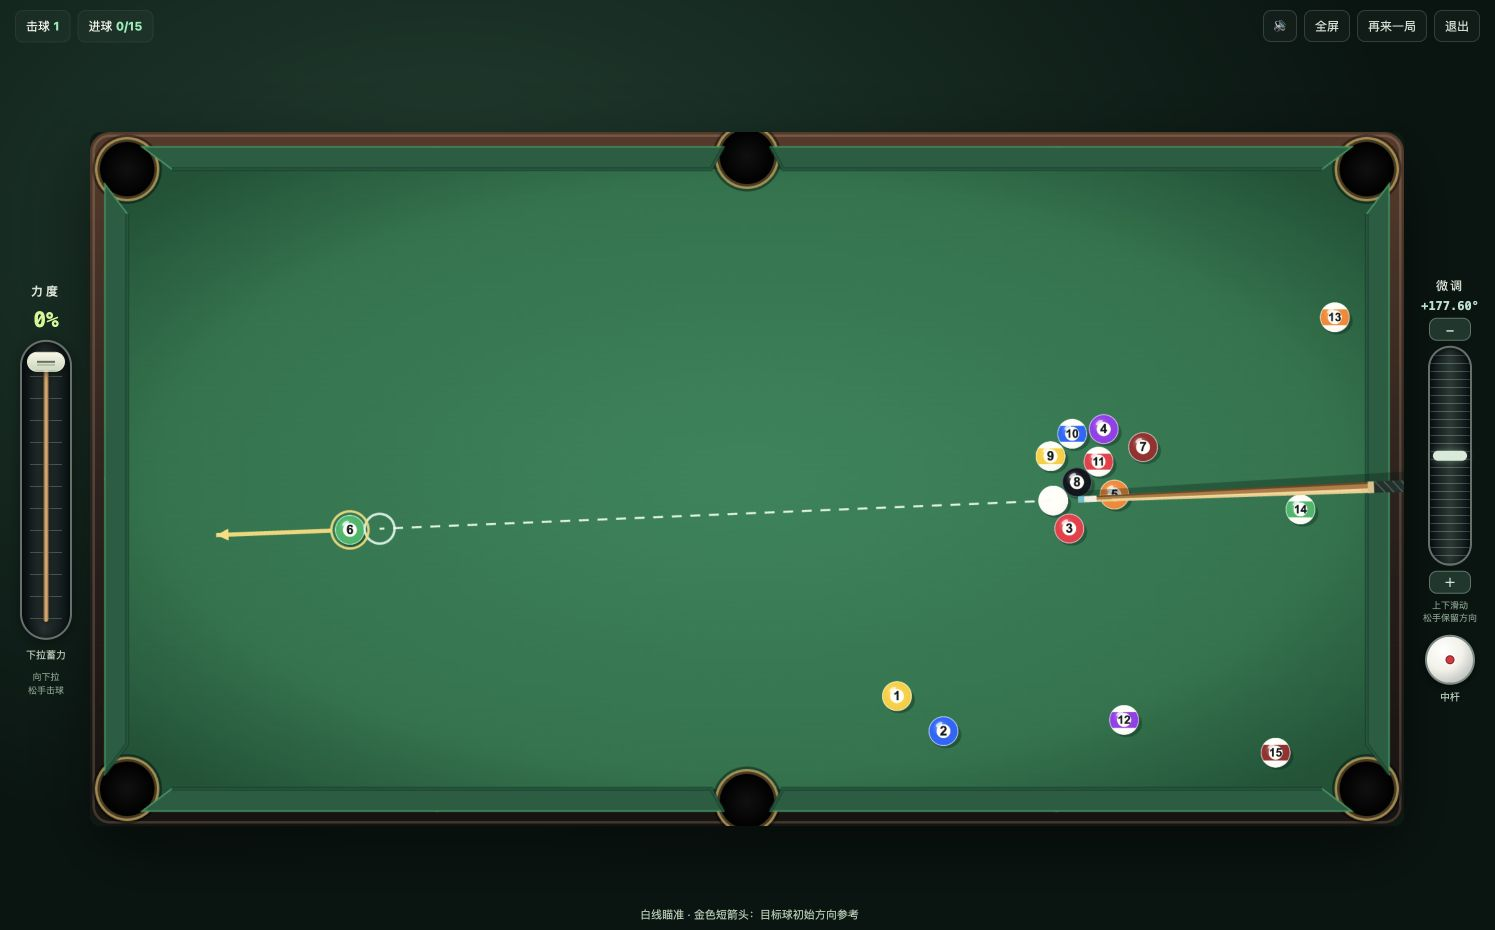
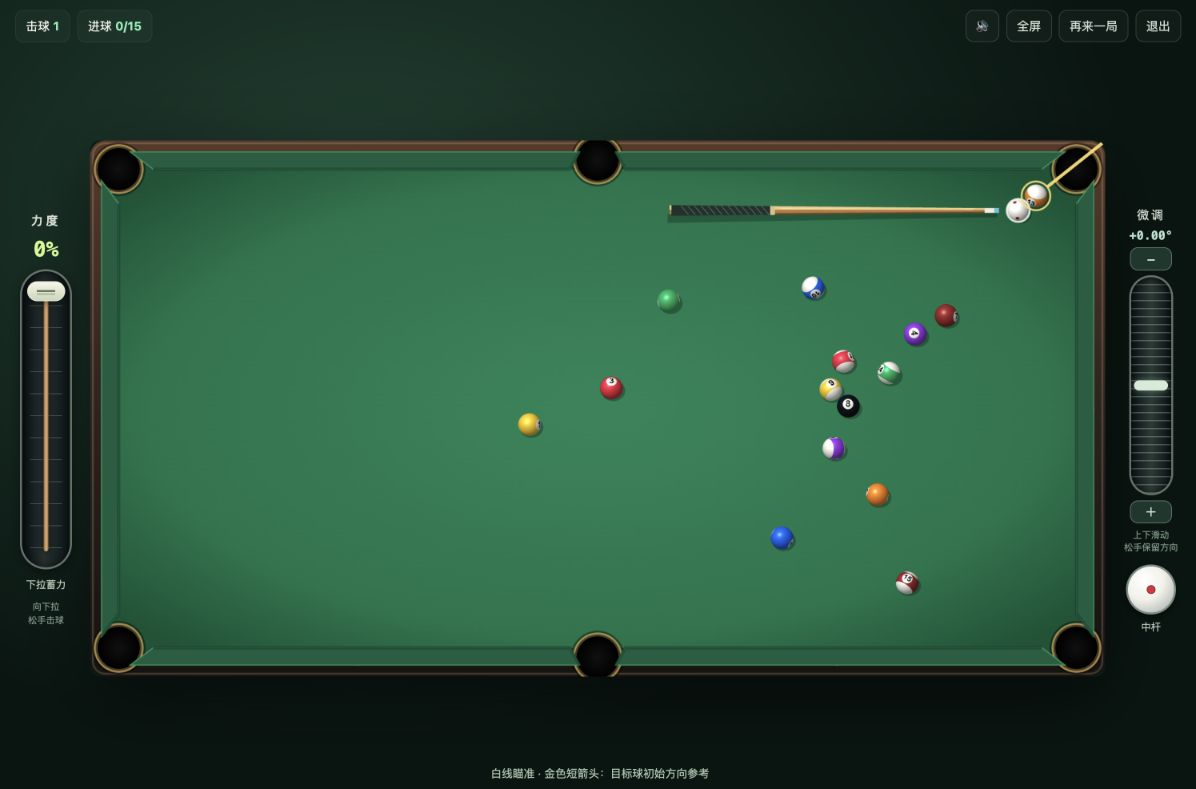
Document 3D ball rendering and refresh gameplay screenshot

diff --git a/README.md b/README.md
@@ -1,12 +1,12 @@
 # RainBow Pool · 和朋友来一局
 
-中文、手机横屏的 2D 台球游戏。创建球桌、分享链接，两位玩家无需注册即可对打；也支持单人练球。
+支持手机横屏的中文台球游戏，采用俯视球桌和三维球面。创建球桌、分享链接，两位玩家无需注册即可对打，也可以单人练球。
 
 [在线体验](https://3000-agq2udpq7t7yj3auet7yeeg4fy.instabox.tech/) · [更新日志](CHANGELOG.md) · [物理模型](PHYSICS.md) · [部署说明](DEPLOY.md) · [参与贡献](CONTRIBUTING.md)
 
 示例部署使用免费云主机，可能休眠或暂时不可用。可以按下文自行部署。
 
-![RainBow Pool 游戏界面](docs/gameplay.jpg)
+![RainBow Pool 开球后的实机画面，球号和花色停在不同朝向](docs/gameplay.jpg)
 
 ## 当前功能
 
@@ -14,6 +14,7 @@
 - 六位房间码与邀请链接，每张球桌最多两位玩家。
 - 服务器统一计算物理、球权、自由球和基本八球胜负；支持断线重连及房间存档。
 - 可见球杆、左侧独立力度条、右侧角度微调，以及白球击点控制。
+- 三维球面随自转滚动。球号、花色条纹和白球红点会转到侧面或背面，停球后保留当时的朝向。联机双方会收到相同的球面朝向。
 - 高低杆、左右塞、滑动/滚动摩擦、球碰球和库边碰撞；袋口斜边参与实际碰撞。
 - 稳定的短方向指引，蓄力时不晃动；白球落袋后，对手可反复摆放自由球并确认。
 - 联机运动显示补帧、按变化更新记分栏和拥塞时的中间快照限流。
@@ -47,7 +48,9 @@ npm start
 
 当前采用简化八球规则：房主打全色 1–7，访客打花色 9–15，清完本组后打黑 8。白球落袋、先碰错球、未碰球或无有效碰库等情形由服务端判罚。按本项目约定，自由球统一允许全台摆放；没有完整实现比赛中的开球选择、叫球与所有赛事细则。
 
-方向箭头基于固定参考击球求得的初始方向，实际效果仍受力度、加塞及后续碰撞影响。物理是贴台、水平球杆的刚体近似，未模拟抬杆弧线、跳球和球杆弹性；参数未对真实器材标定。详见 [PHYSICS.md](PHYSICS.md)。
+方向箭头基于固定参考击球求得的初始方向，实际效果还受力度、加塞及后续碰撞影响。
+
+物理模型让球心沿台面运动，并计算绕三个轴的自转。WebGL 根据自转绘制三维球面，其他渲染器使用静态球面。模型采用贴台球与水平球杆的刚体近似，适用范围见 [物理模型说明](PHYSICS.md)。
 
 ## 本地开发
 
@@ -76,7 +79,7 @@ npm run build
 POOL_TEST_URL=http://127.0.0.1:3000 npm run test:network
 ```
 
-`npm test` 包含 22 项物理、瞄准、规则及显示推演检查；联网测试覆盖双人入座、回合限制、犯规、自由球预摆/确认、房间隔离和断线重连。GitHub Actions 在提交和 Pull Request 时自动运行测试与构建。
+`npm test` 包含 25 项物理、瞄准、规则及显示推演检查。联网测试覆盖双人入座、回合限制、球面朝向同步、犯规、自由球预摆与确认、房间隔离和断线重连。GitHub Actions 在提交和 Pull Request 时自动运行测试与构建。
 
 ## 配置
 
@@ -95,6 +98,8 @@ POOL_TEST_URL=http://127.0.0.1:3000 npm run test:network
 ```text
 src/main.js          游戏循环、输入与客户端状态
 src/scene.js         PixiJS 绘制与方向指引
+src/ball-visual.js   WebGL 三维球面、花色和号码
+src/orientation.js   根据角速度更新球面朝向
 src/aiming.js        接触位置与初始方向参考
 src/physics.js       共享物理求解器
 src/geometry.js      绘制与碰撞共用的库边、袋口几何

diff --git a/CHANGELOG.md b/CHANGELOG.md
@@ -2,7 +2,7 @@
 
 ## Unreleased
 
-后续改动通过独立分支和 Pull Request 迭代；完成测试后更新此文件。
+- 球号、花色条纹和白球红点随三维球面滚动，停球后保留朝向。联机双方同步球面朝向。
 
 ## 1.3.0 — 2026-11-06
 
